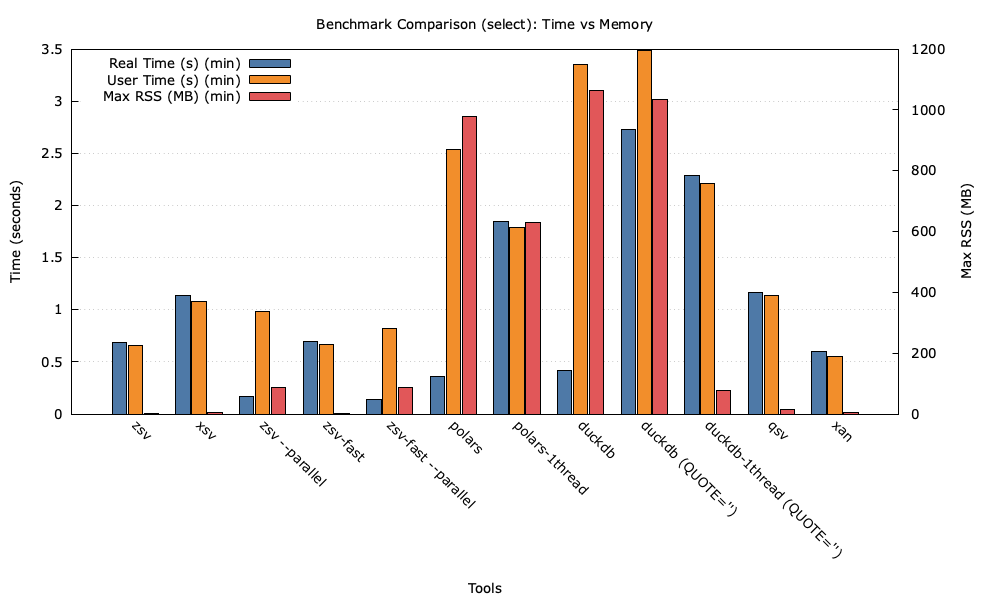
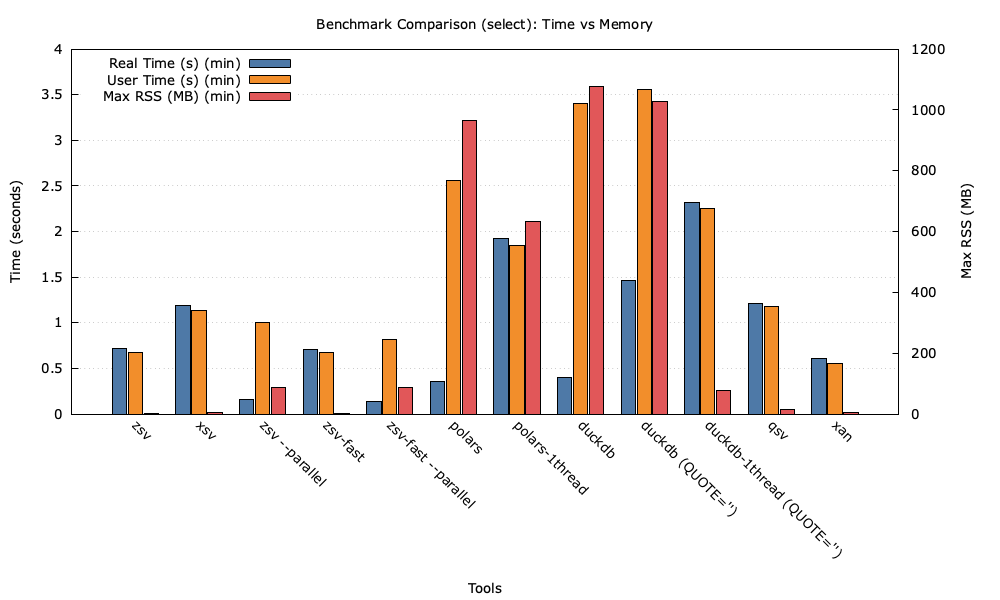
--amend

diff --git a/app/benchmark/results/benchmark-fast-parser-quoting-darwin-arm64-2026-03-26-1124.md b/app/benchmark/results/benchmark-fast-parser-quoting-darwin-arm64-2026-03-26-1124.md
@@ -1,0 +1,90 @@
+# CSV Parser Benchmark: Fast Parser Quoting Modes
+
+Date: 2026-03-26
+Platform: Darwin arm64
+CPU: Apple M3 Pro (single-threaded)
+Estimated disk I/O bandwidth: 10.2 GB/s (sequential read)
+Data: 500000 rows x 20 columns, best-of-5 iterations
+
+## Tools
+
+| Tool | Version | Notes |
+|------|---------|-------|
+| zsv legacy | (this repo) | Standard character-by-character parser |
+| zsv legacy --parallel | (this repo) | Legacy parser, multi-threaded |
+| zsv fast | (this repo) | SIMD parser, prefix-XOR for quoted blocks |
+| zsv fast --parallel | (this repo) | SIMD parser, multi-threaded |
+| xsv | 0.13.0 | BurntSushi/xsv |
+| xan | 0.54.1 | medialab/xan |
+| polars | 1.35.2 | Python polars library (single-threaded, via venv) |
+| qsv | qsv 8.1.1-mimalloc | jqnatividad/qsv (qsv) |
+| duckdb | v0.10.2 1601d94f94 | Default (multi-threaded, with quote handling) |
+| duckdb (QUOTE='') | v0.10.2 1601d94f94 | Multi-threaded, no quote recognition |
+| duckdb 1-thread (QUOTE='') | v0.10.2 1601d94f94 | Single-threaded, no quote recognition |
+
+## Datasets
+
+| Name | Size | Description |
+|------|------|-------------|
+| unquoted | ~118 MB | No quote characters anywhere |
+| sparse_quoted | ~118 MB | ~2% of cells are standard quoted (with commas) |
+| standard_quoted | ~127 MB | ~20% of cells are RFC 4180 quoted |
+| nonstandard_quoted | ~127 MB | ~27% of cells have mid-cell quotes in unquoted fields plus standard quoted fields |
+
+## Correctness
+
+N/A = produces incorrect results for this dataset.
+
+| Dataset | zsv legacy | zsv legacy --parallel | zsv fast | zsv fast --parallel | xsv | xan | polars | qsv | duckdb | duckdb (QUOTE='') | duckdb 1-thread (QUOTE='') |
+|---------|------|------|------|------|------|------|------|------|------|------|------|
+| unquoted | correct | correct | correct | correct | correct | correct | correct* | correct | correct | correct | correct |
+| sparse_quoted | correct | correct | correct | correct | correct | correct | correct* | correct | correct | correct | correct |
+| standard_quoted | correct | correct | correct | correct | correct | correct | correct* | correct | correct | correct | correct |
+| nonstandard_quoted | correct | correct | **incorrect** | **incorrect** | correct | **incorrect** | **incorrect*** | correct | correct | correct | correct |
+
+\*polars handles mid-cell quotes in unquoted fields but fails on other
+nonstandard patterns (e.g. malformed quoted fields like `"bb"bb"b`).
+
+## Results: count (row counting)
+
+### Wall time
+
+| Dataset | zsv legacy | zsv legacy --parallel | zsv fast | zsv fast --parallel | xsv | xan | polars | qsv | duckdb | duckdb (QUOTE='') | duckdb 1-thread (QUOTE='') |
+|---------|------|------|------|------|------|------|------|------|------|------|------|
+| unquoted | 0.107s | 0.018s | <img src="https://placehold.co/15x15/28a745/28a745.png" width="15" height="15"> **0.023s** | <img src="https://placehold.co/15x15/28a745/28a745.png" width="15" height="15"> **0.008s** | <img src="https://placehold.co/15x15/f0ad4e/f0ad4e.png" width="15" height="15"> **0.087s** | <img src="https://placehold.co/15x15/28a745/28a745.png" width="15" height="15"> **0.023s** | 0.092s | 0.124s | 0.085s | 0.049s | 0.112s |
+| sparse_quoted | 0.109s | 0.020s | <img src="https://placehold.co/15x15/28a745/28a745.png" width="15" height="15"> **0.023s** | <img src="https://placehold.co/15x15/28a745/28a745.png" width="15" height="15"> **0.008s** | 0.092s | <img src="https://placehold.co/15x15/f0ad4e/f0ad4e.png" width="15" height="15"> **0.028s** | 0.091s | 0.127s | 0.073s | 0.053s | 0.153s |
+| standard_quoted | 0.147s | 0.025s | <img src="https://placehold.co/15x15/28a745/28a745.png" width="15" height="15"> **0.026s** | <img src="https://placehold.co/15x15/28a745/28a745.png" width="15" height="15"> **0.009s** | 0.124s | <img src="https://placehold.co/15x15/f0ad4e/f0ad4e.png" width="15" height="15"> **0.082s** | 0.092s | 0.159s | 0.085s | 0.055s | 0.163s |
+| nonstandard_quoted | <img src="https://placehold.co/15x15/f0ad4e/f0ad4e.png" width="15" height="15"> **0.158s** | <img src="https://placehold.co/15x15/28a745/28a745.png" width="15" height="15"> **0.026s** | N/A | N/A | <img src="https://placehold.co/15x15/28a745/28a745.png" width="15" height="15"> **0.129s** | N/A | N/A | 0.160s | 0.084s | 0.056s | 0.163s |
+
+### Throughput (GB/s)
+
+Disk I/O bandwidth: 10.2 GB/s (sequential read)
+
+| Dataset | zsv legacy | zsv legacy --parallel | zsv fast | zsv fast --parallel | xsv | xan | polars | qsv | duckdb | duckdb (QUOTE='') | duckdb 1-thread (QUOTE='') |
+|---------|------|------|------|------|------|------|------|------|------|------|------|
+| unquoted | 1.06 GB/s | 6.35 GB/s | <img src="https://placehold.co/15x15/28a745/28a745.png" width="15" height="15"> **4.97 GB/s** | <img src="https://placehold.co/15x15/28a745/28a745.png" width="15" height="15"> **14.29 GB/s** | <img src="https://placehold.co/15x15/f0ad4e/f0ad4e.png" width="15" height="15"> **1.31 GB/s** | <img src="https://placehold.co/15x15/28a745/28a745.png" width="15" height="15"> **4.97 GB/s** | 1.24 GB/s | .92 GB/s | 1.34 GB/s | 2.33 GB/s | 1.02 GB/s |
+| sparse_quoted | 1.05 GB/s | 5.74 GB/s | <img src="https://placehold.co/15x15/28a745/28a745.png" width="15" height="15"> **4.99 GB/s** | <img src="https://placehold.co/15x15/28a745/28a745.png" width="15" height="15"> **14.35 GB/s** | 1.24 GB/s | <img src="https://placehold.co/15x15/f0ad4e/f0ad4e.png" width="15" height="15"> **4.10 GB/s** | 1.26 GB/s | .90 GB/s | 1.57 GB/s | 2.16 GB/s | .75 GB/s |
+| standard_quoted | .83 GB/s | 4.92 GB/s | <img src="https://placehold.co/15x15/28a745/28a745.png" width="15" height="15"> **4.73 GB/s** | <img src="https://placehold.co/15x15/28a745/28a745.png" width="15" height="15"> **13.68 GB/s** | .99 GB/s | <img src="https://placehold.co/15x15/f0ad4e/f0ad4e.png" width="15" height="15"> **1.50 GB/s** | 1.33 GB/s | .77 GB/s | 1.44 GB/s | 2.23 GB/s | .75 GB/s |
+| nonstandard_quoted | <img src="https://placehold.co/15x15/f0ad4e/f0ad4e.png" width="15" height="15"> **.78 GB/s** | <img src="https://placehold.co/15x15/28a745/28a745.png" width="15" height="15"> **4.75 GB/s** | N/A | N/A | <img src="https://placehold.co/15x15/28a745/28a745.png" width="15" height="15"> **.95 GB/s** | N/A | N/A | .77 GB/s | 1.47 GB/s | 2.20 GB/s | .75 GB/s |
+
+## Results: select (full parse + CSV output)
+
+### Wall time
+
+| Dataset | zsv legacy | zsv legacy --parallel | zsv fast | zsv fast --parallel | xsv | xan | polars | qsv | duckdb | duckdb (QUOTE='') | duckdb 1-thread (QUOTE='') |
+|---------|------|------|------|------|------|------|------|------|------|------|------|
+| unquoted | 0.143s | 0.044s | <img src="https://placehold.co/15x15/f0ad4e/f0ad4e.png" width="15" height="15"> **0.097s** | <img src="https://placehold.co/15x15/28a745/28a745.png" width="15" height="15"> **0.036s** | 0.189s | <img src="https://placehold.co/15x15/28a745/28a745.png" width="15" height="15"> **0.077s** | 0.410s | 0.215s | 0.110s | 0.104s | 0.395s |
+| sparse_quoted | 0.166s | 0.047s | <img src="https://placehold.co/15x15/f0ad4e/f0ad4e.png" width="15" height="15"> **0.105s** | <img src="https://placehold.co/15x15/28a745/28a745.png" width="15" height="15"> **0.035s** | 0.195s | <img src="https://placehold.co/15x15/28a745/28a745.png" width="15" height="15"> **0.081s** | 0.408s | 0.222s | 0.105s | 0.066s | 0.204s |
+| standard_quoted | 0.289s | 0.067s | <img src="https://placehold.co/15x15/28a745/28a745.png" width="15" height="15"> **0.138s** | <img src="https://placehold.co/15x15/28a745/28a745.png" width="15" height="15"> **0.038s** | 0.260s | <img src="https://placehold.co/15x15/f0ad4e/f0ad4e.png" width="15" height="15"> **0.145s** | 0.426s | 0.278s | 0.130s | 0.071s | 0.216s |
+| nonstandard_quoted | 0.324s | <img src="https://placehold.co/15x15/28a745/28a745.png" width="15" height="15"> **0.076s** | N/A | N/A | <img src="https://placehold.co/15x15/28a745/28a745.png" width="15" height="15"> **0.288s** | N/A | N/A | <img src="https://placehold.co/15x15/f0ad4e/f0ad4e.png" width="15" height="15"> **0.299s** | 0.139s | N/A | N/A |
+
+### Throughput (GB/s)
+
+Disk I/O bandwidth: 10.2 GB/s (sequential read)
+
+| Dataset | zsv legacy | zsv legacy --parallel | zsv fast | zsv fast --parallel | xsv | xan | polars | qsv | duckdb | duckdb (QUOTE='') | duckdb 1-thread (QUOTE='') |
+|---------|------|------|------|------|------|------|------|------|------|------|------|
+| unquoted | .79 GB/s | 2.59 GB/s | <img src="https://placehold.co/15x15/f0ad4e/f0ad4e.png" width="15" height="15"> **1.17 GB/s** | <img src="https://placehold.co/15x15/28a745/28a745.png" width="15" height="15"> **3.17 GB/s** | .60 GB/s | <img src="https://placehold.co/15x15/28a745/28a745.png" width="15" height="15"> **1.48 GB/s** | .27 GB/s | .53 GB/s | 1.03 GB/s | 1.09 GB/s | .28 GB/s |
+| sparse_quoted | .69 GB/s | 2.44 GB/s | <img src="https://placehold.co/15x15/f0ad4e/f0ad4e.png" width="15" height="15"> **1.09 GB/s** | <img src="https://placehold.co/15x15/28a745/28a745.png" width="15" height="15"> **3.28 GB/s** | .58 GB/s | <img src="https://placehold.co/15x15/28a745/28a745.png" width="15" height="15"> **1.41 GB/s** | .28 GB/s | .51 GB/s | 1.09 GB/s | 1.74 GB/s | .56 GB/s |
+| standard_quoted | .42 GB/s | 1.83 GB/s | <img src="https://placehold.co/15x15/28a745/28a745.png" width="15" height="15"> **.89 GB/s** | <img src="https://placehold.co/15x15/28a745/28a745.png" width="15" height="15"> **3.24 GB/s** | .47 GB/s | <img src="https://placehold.co/15x15/f0ad4e/f0ad4e.png" width="15" height="15"> **.84 GB/s** | .28 GB/s | .44 GB/s | .94 GB/s | 1.73 GB/s | .57 GB/s |
+| nonstandard_quoted | .38 GB/s | <img src="https://placehold.co/15x15/28a745/28a745.png" width="15" height="15"> **1.62 GB/s** | N/A | N/A | <img src="https://placehold.co/15x15/28a745/28a745.png" width="15" height="15"> **.42 GB/s** | N/A | N/A | <img src="https://placehold.co/15x15/f0ad4e/f0ad4e.png" width="15" height="15"> **.41 GB/s** | .88 GB/s | N/A | N/A |

diff --git a/app/benchmark/README.md b/app/benchmark/README.md
@@ -21,7 +21,7 @@ Important notes!
 ## Benchmark result summaries
 
 <!-- benchmark-results-start -->
-- [darwin-arm64: benchmark-fast-parser-quoting-darwin-arm64-2026-03-25-1544.md](results/benchmark-fast-parser-quoting-darwin-arm64-2026-03-25-1544.md)
+- [darwin-arm64: benchmark-fast-parser-quoting-darwin-arm64-2026-03-26-1124.md](results/benchmark-fast-parser-quoting-darwin-arm64-2026-03-26-1124.md)
 - [linux-x86_64: benchmark-fast-parser-quoting-linux-x86_64-2026-03-26-1713.md](results/benchmark-fast-parser-quoting-linux-x86_64-2026-03-26-1713.md)
 <!-- benchmark-results-end -->
 

diff --git a/README.md b/README.md
@@ -102,6 +102,7 @@ please open an issue!
 zsv includes a SIMD-accelerated fast parser (`--parser fast`) that uses
 branchless prefix-XOR carry propagation for quote state tracking, available on
 aarch64 (NEON), x86-64 (AVX2), and x86-64 (SSE2), including Windows (mingw64).
+wasm (compiled via emscripten) support will be added next.
 
 The fast parser is only designed for input that uses quoting as defined in RFC 4180
 (but does not require other limitations of RFC 4180 such as CRLF line ends).
